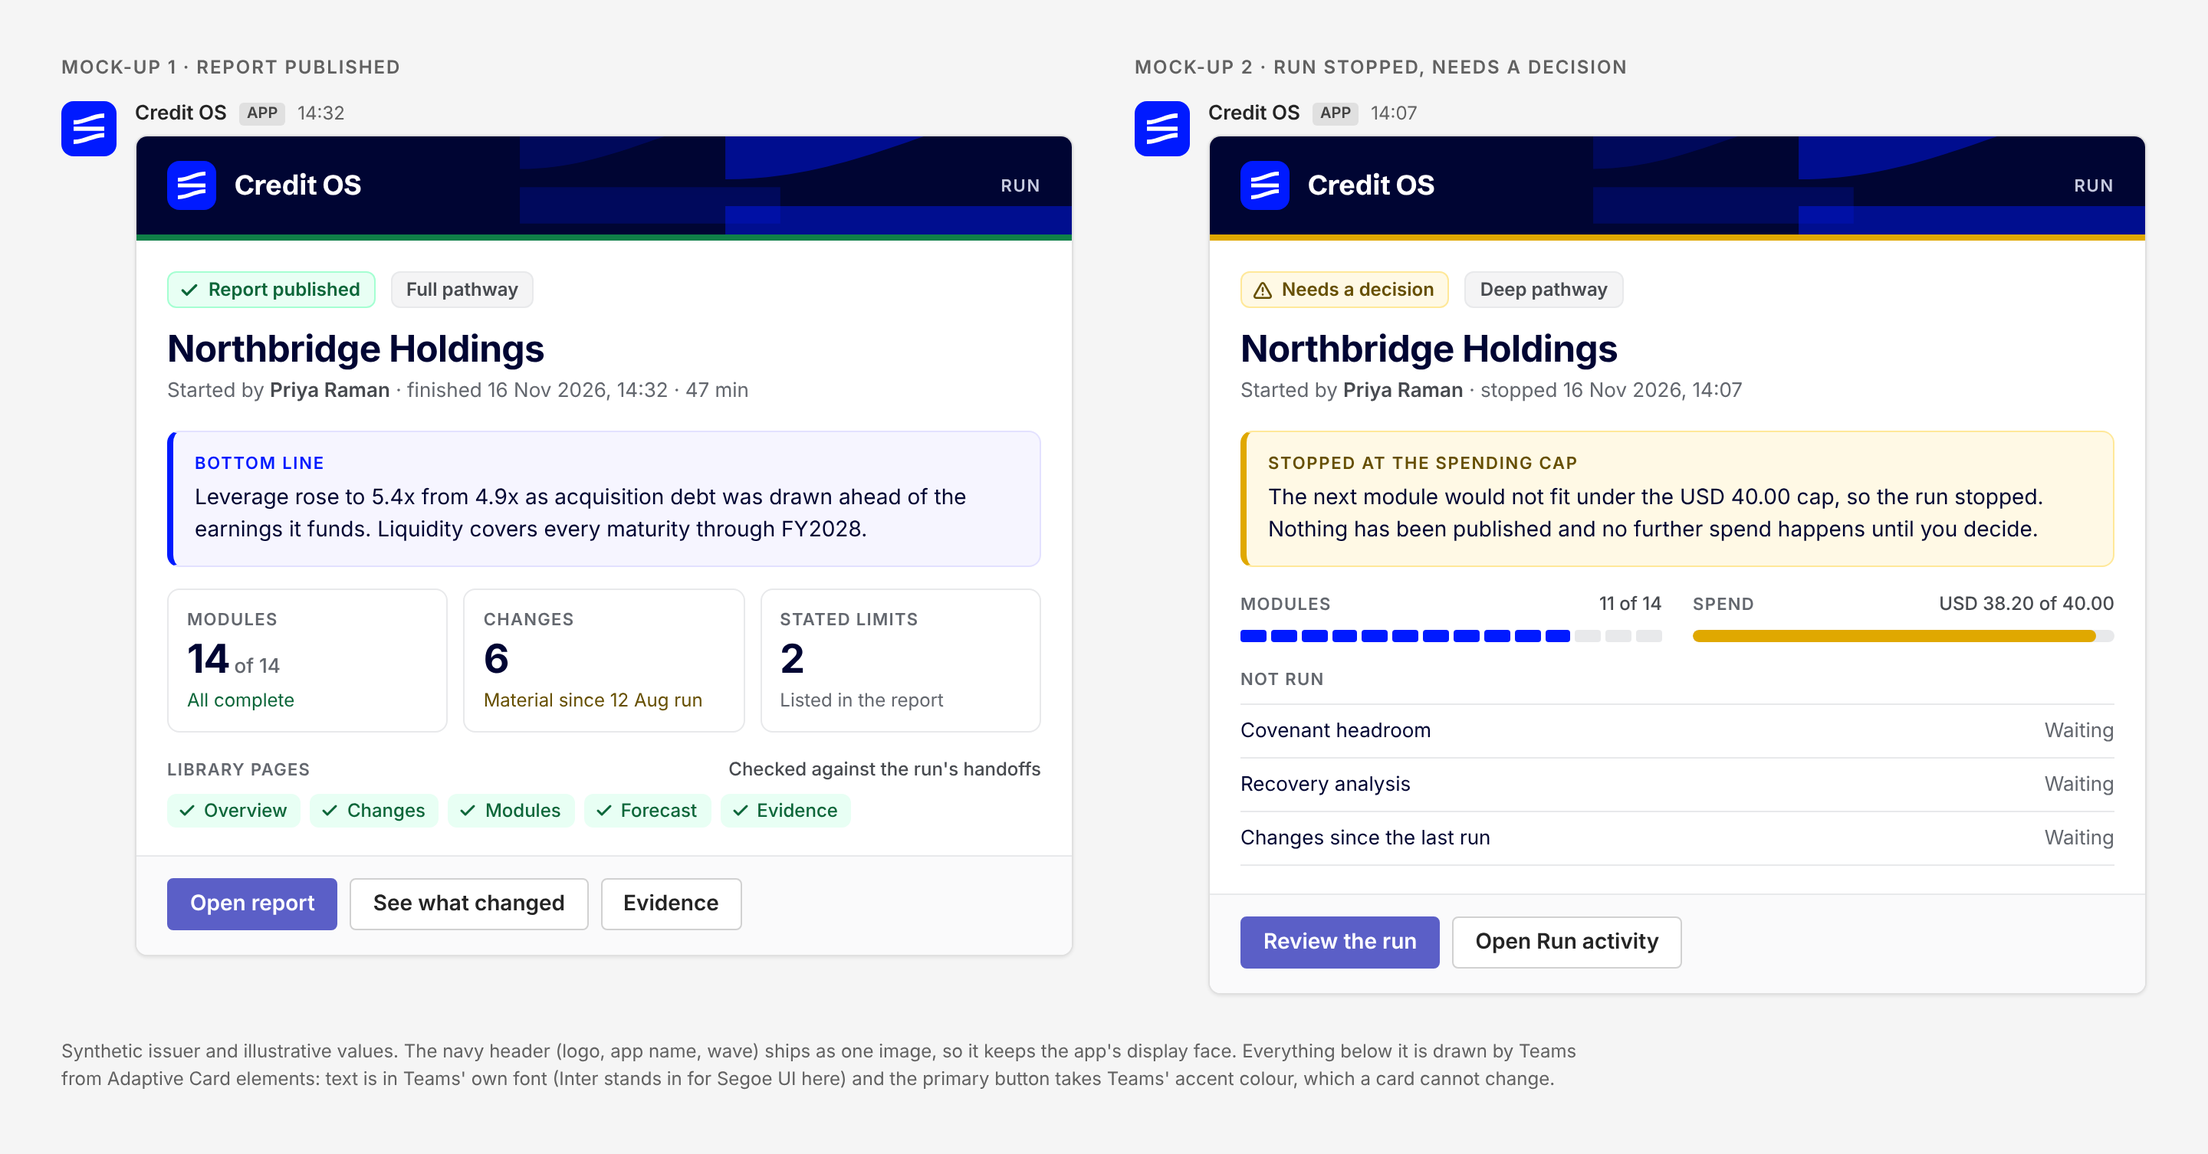
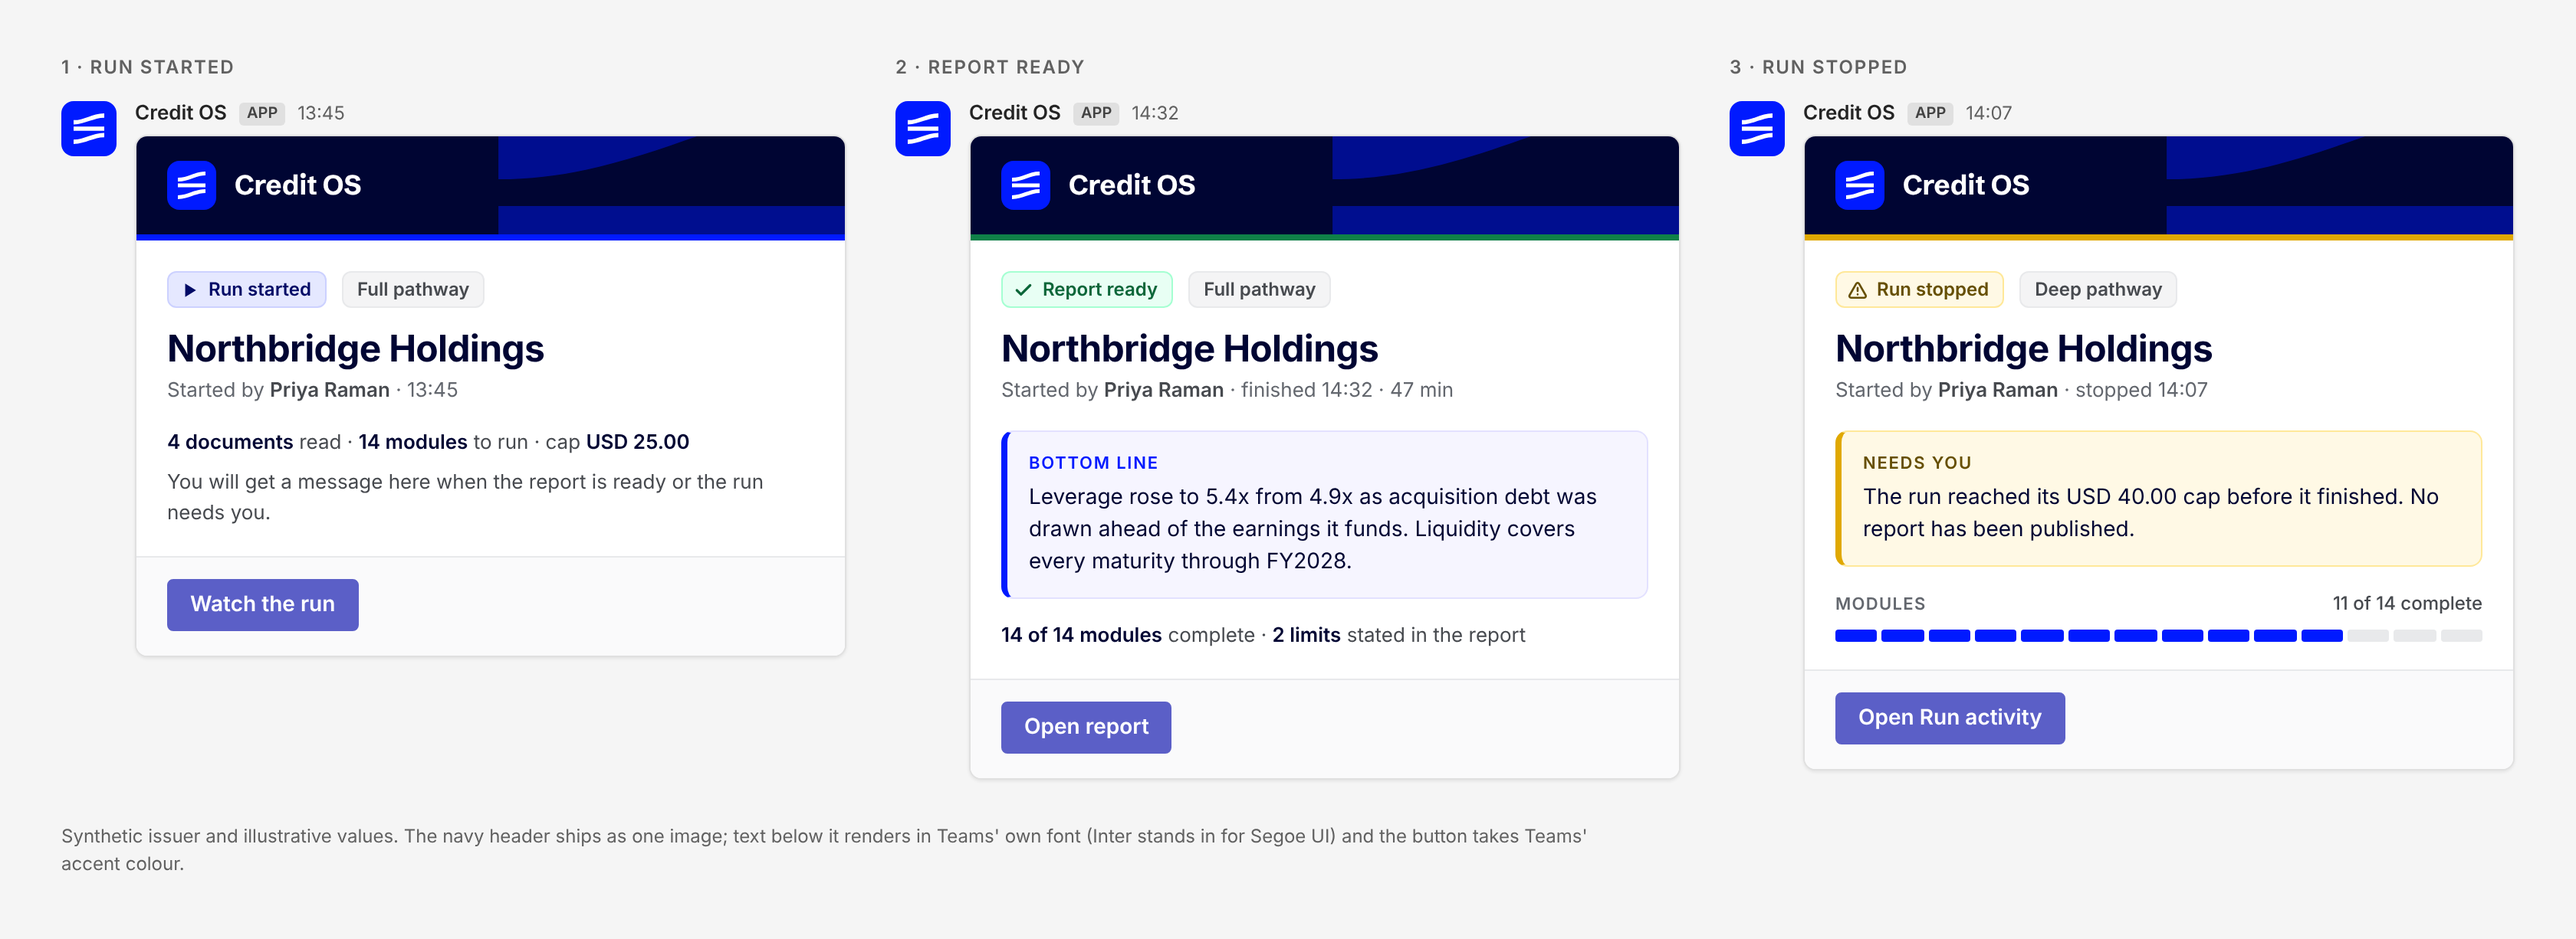
Simplify Teams card mock-ups to three run cards
Claude-Session: https://claude.ai/code/session_01VxgayG2v9EWn8RLjcEmEQx

diff --git a/docs/design/mockups/teams-cards.html b/docs/design/mockups/teams-cards.html
@@ -20,8 +20,8 @@
   --display: "Schibsted Grotesk", system-ui, sans-serif;
 }
 * { box-sizing: border-box; margin: 0; }
-body { background: var(--teams-bg); font-family: var(--ui); color: var(--teams-ink); padding: 36px 40px 40px; width: 1440px; }
-.board { display: grid; grid-template-columns: 1fr 1fr; gap: 40px; align-items: start; }
+body { background: var(--teams-bg); font-family: var(--ui); color: var(--teams-ink); padding: 36px 40px 40px; width: 1680px; }
+.board { display: grid; grid-template-columns: 1fr 1fr 1fr; gap: 32px; align-items: start; }
 .label { font: 600 12px/16px var(--ui); letter-spacing: .08em; text-transform: uppercase; color: var(--teams-ink-2); margin-bottom: 14px; }
 
 /* Teams message chrome */
@@ -44,6 +44,7 @@ body { background: var(--teams-bg); font-family: var(--ui); color: var(--teams-i
 .appname { font: 700 18px/1 var(--display); letter-spacing: -.01em; color: #fff; position: relative; }
 .band .kind { margin-left: auto; position: relative; font: 600 11px/1 var(--ui); letter-spacing: .08em; text-transform: uppercase; color: #c7cbe0; }
 .stripe { height: 4px; }
+.stripe.info { background: var(--blue); } .badge.info { color: #000a66; background: var(--blue-50); border-color: var(--blue-100); }
 .stripe.ok { background: var(--ok-mark); } .stripe.warn { background: #e0a800; }
 
 .body { padding: 20px 20px 18px; }
@@ -93,6 +94,8 @@ h2 { font: 700 24px/30px var(--ui); letter-spacing: -.015em; color: var(--ink); 
 .actions { display: flex; gap: 8px; padding: 14px 20px 16px; border-top: 1px solid var(--hair); background: #fafafb; }
 .btn { font: 600 14px/32px var(--ui); padding: 0 14px; border-radius: 4px; border: 1px solid #d1d1d1; background: #fff; color: var(--teams-ink); }
 .btn.primary { background: var(--teams-accent); border-color: var(--teams-accent); color: #fff; }
+.line { font: 400 13px/20px var(--ui); color: var(--ink-2); margin-top: 14px; }
+.line b { font-weight: 600; color: var(--ink); }
 .note { margin-top: 28px; font: 400 12px/18px var(--ui); color: var(--teams-ink-2); max-width: 1000px; }
 </style>
 </head>
@@ -100,15 +103,39 @@ h2 { font: 700 24px/30px var(--ui); letter-spacing: -.015em; color: var(--ink); 
 <svg width="0" height="0" style="position:absolute" aria-hidden="true">
   <defs>
     <symbol id="sym" viewBox="0 0 1521 1515"><path fill="currentColor" d="m724.8 173c238.6-82.4 489.9-172.7 795.3-172.7v211c-267.1 0-488 78.5-726.5 160.9-235.7 82.4-488 172.7-793.3 172.7v-211c267 0 487.9-78.5 724.5-160.9zm-724.5 477.8h1519.8v213h-111-1408.8zm0 652.5c267 0 487.9-78.5 724.5-161 238.6-82.4 489.9-172.6 795.3-172.6v210.9c-267.1 0-488 78.5-726.5 160.9-236.6 82.5-488 172.7-793.3 172.7z"/></symbol>
+    <symbol id="play" viewBox="0 0 24 24"><path d="M7 4v16l13-8z" fill="currentColor"/></symbol>
     <symbol id="check" viewBox="0 0 24 24"><path d="M20 6 9 17l-5-5" fill="none" stroke="currentColor" stroke-width="3" stroke-linecap="round" stroke-linejoin="round"/></symbol>
     <symbol id="alert" viewBox="0 0 24 24"><path d="m21.7 18-8-14a2 2 0 0 0-3.4 0l-8 14A2 2 0 0 0 4 21h16a2 2 0 0 0 1.7-3ZM12 9v4m0 4h.01" fill="none" stroke="currentColor" stroke-width="2.4" stroke-linecap="round" stroke-linejoin="round"/></symbol>
   </defs>
 </svg>
 
 <div class="board">
-  <!-- Card 1 -->
   <section>
-    <div class="label">Mock-up 1 &middot; Report published</div>
+    <div class="label">1 &middot; Run started</div>
+    <div class="msg">
+      <div class="avatar"><svg><use href="#sym"/></svg></div>
+      <div>
+        <div class="meta"><b>Credit OS</b><span class="app">APP</span><span>13:45</span></div>
+        <div class="card">
+          <div class="band">
+            <svg class="wave" viewBox="0 0 1521 1515"><use href="#sym"/></svg>
+            <div class="logo"><svg><use href="#sym"/></svg></div>
+            <div class="appname">Credit OS</div>
+          </div>
+          <div class="stripe info"></div>
+          <div class="body">
+            <div class="row"><span class="badge info"><svg><use href="#play"/></svg>Run started</span><span class="badge plain">Full pathway</span></div>
+            <h2>Northbridge Holdings</h2>
+            <div class="sub">Started by <b>Priya Raman</b> &middot; 13:45</div>
+            <div class="line"><b>4 documents</b> read &middot; <b>14 modules</b> to run &middot; cap <b>USD 25.00</b></div><div class="line" style="margin-top:6px">You will get a message here when the report is ready or the run needs you.</div>
+          </div>
+          <div class="actions"><span class="btn primary">Watch the run</span></div>
+        </div>
+      </div>
+    </div>
+  </section>
+  <section>
+    <div class="label">2 &middot; Report ready</div>
     <div class="msg">
       <div class="avatar"><svg><use href="#sym"/></svg></div>
       <div>
@@ -116,55 +143,23 @@ h2 { font: 700 24px/30px var(--ui); letter-spacing: -.015em; color: var(--ink); 
         <div class="card">
           <div class="band">
             <svg class="wave" viewBox="0 0 1521 1515"><use href="#sym"/></svg>
-            <svg class="wave wave2" viewBox="0 0 1521 1515"><use href="#sym"/></svg>
             <div class="logo"><svg><use href="#sym"/></svg></div>
             <div class="appname">Credit OS</div>
-            <div class="kind">Run</div>
           </div>
           <div class="stripe ok"></div>
           <div class="body">
-            <div class="row">
-              <span class="badge ok"><svg><use href="#check"/></svg>Report published</span>
-              <span class="badge plain">Full pathway</span>
-            </div>
+            <div class="row"><span class="badge ok"><svg><use href="#check"/></svg>Report ready</span><span class="badge plain">Full pathway</span></div>
             <h2>Northbridge Holdings</h2>
-            <div class="sub">Started by <b>Priya Raman</b> &middot; finished 16 Nov 2026, 14:32 &middot; 47 min</div>
-
-            <div class="callout">
-              <div class="eyebrow">Bottom line</div>
-              <p>Leverage rose to 5.4x from 4.9x as acquisition debt was drawn ahead of the earnings it funds. Liquidity covers every maturity through FY2028.</p>
-            </div>
-
-            <div class="tiles">
-              <div class="tile"><div class="k">Modules</div><div class="v">14<small>of 14</small></div><div class="n ok">All complete</div></div>
-              <div class="tile"><div class="k">Changes</div><div class="v">6</div><div class="n up">Material since 12 Aug run</div></div>
-              <div class="tile"><div class="k">Stated limits</div><div class="v">2</div><div class="n">Listed in the report</div></div>
-            </div>
-
-            <div class="section">
-              <div class="k">Library pages <span>Checked against the run's handoffs</span></div>
-              <div class="chips">
-                <span class="chip"><svg><use href="#check"/></svg>Overview</span>
-                <span class="chip"><svg><use href="#check"/></svg>Changes</span>
-                <span class="chip"><svg><use href="#check"/></svg>Modules</span>
-                <span class="chip"><svg><use href="#check"/></svg>Forecast</span>
-                <span class="chip"><svg><use href="#check"/></svg>Evidence</span>
-              </div>
-            </div>
+            <div class="sub">Started by <b>Priya Raman</b> &middot; finished 14:32 &middot; 47 min</div>
+            <div class="callout"><div class="eyebrow">Bottom line</div><p>Leverage rose to 5.4x from 4.9x as acquisition debt was drawn ahead of the earnings it funds. Liquidity covers every maturity through FY2028.</p></div><div class="line"><b>14 of 14 modules</b> complete &middot; <b>2 limits</b> stated in the report</div>
           </div>
-          <div class="actions">
-            <span class="btn primary">Open report</span>
-            <span class="btn">See what changed</span>
-            <span class="btn">Evidence</span>
-          </div>
+          <div class="actions"><span class="btn primary">Open report</span></div>
         </div>
       </div>
     </div>
   </section>
-
-  <!-- Card 2 -->
   <section>
-    <div class="label">Mock-up 2 &middot; Run stopped, needs a decision</div>
+    <div class="label">3 &middot; Run stopped</div>
     <div class="msg">
       <div class="avatar"><svg><use href="#sym"/></svg></div>
       <div>
@@ -172,55 +167,23 @@ h2 { font: 700 24px/30px var(--ui); letter-spacing: -.015em; color: var(--ink); 
         <div class="card">
           <div class="band">
             <svg class="wave" viewBox="0 0 1521 1515"><use href="#sym"/></svg>
-            <svg class="wave wave2" viewBox="0 0 1521 1515"><use href="#sym"/></svg>
             <div class="logo"><svg><use href="#sym"/></svg></div>
             <div class="appname">Credit OS</div>
-            <div class="kind">Run</div>
           </div>
           <div class="stripe warn"></div>
           <div class="body">
-            <div class="row">
-              <span class="badge warn"><svg><use href="#alert"/></svg>Needs a decision</span>
-              <span class="badge plain">Deep pathway</span>
-            </div>
+            <div class="row"><span class="badge warn"><svg><use href="#alert"/></svg>Run stopped</span><span class="badge plain">Deep pathway</span></div>
             <h2>Northbridge Holdings</h2>
-            <div class="sub">Started by <b>Priya Raman</b> &middot; stopped 16 Nov 2026, 14:07</div>
-
-            <div class="callout warn">
-              <div class="eyebrow">Stopped at the spending cap</div>
-              <p>The next module would not fit under the USD 40.00 cap, so the run stopped. Nothing has been published and no further spend happens until you decide.</p>
-            </div>
-
-            <div class="two section">
-              <div>
-                <div class="k">Modules <span>11 of 14</span></div>
-                <div class="bar"><i></i><i></i><i></i><i></i><i></i><i></i><i></i><i></i><i></i><i></i><i></i><i class="off"></i><i class="off"></i><i class="off"></i></div>
-              </div>
-              <div>
-                <div class="k">Spend <span>USD 38.20 of 40.00</span></div>
-                <div class="meter"><i></i></div>
-              </div>
-            </div>
-
-            <div class="section">
-              <div class="k">Not run</div>
-              <div class="facts">
-                <div>Covenant headroom<span>Waiting</span></div>
-                <div>Recovery analysis<span>Waiting</span></div>
-                <div>Changes since the last run<span>Waiting</span></div>
-              </div>
-            </div>
+            <div class="sub">Started by <b>Priya Raman</b> &middot; stopped 14:07</div>
+            <div class="callout warn"><div class="eyebrow">Needs you</div><p>The run reached its USD 40.00 cap before it finished. No report has been published.</p></div><div class="section"><div class="k">Modules <span>11 of 14 complete</span></div><div class="bar"><i></i><i></i><i></i><i></i><i></i><i></i><i></i><i></i><i></i><i></i><i></i><i class="off"></i><i class="off"></i><i class="off"></i></div></div>
           </div>
-          <div class="actions">
-            <span class="btn primary">Review the run</span>
-            <span class="btn">Open Run activity</span>
-          </div>
+          <div class="actions"><span class="btn primary">Open Run activity</span></div>
         </div>
       </div>
     </div>
   </section>
 </div>
 
-<p class="note">Synthetic issuer and illustrative values. The navy header (logo, app name, wave) ships as one image, so it keeps the app's display face. Everything below it is drawn by Teams from Adaptive Card elements: text is in Teams' own font (Inter stands in for Segoe UI here) and the primary button takes Teams' accent colour, which a card cannot change.</p>
+<p class="note">Synthetic issuer and illustrative values. The navy header ships as one image; text below it renders in Teams' own font (Inter stands in for Segoe UI) and the button takes Teams' accent colour.</p>
 </body>
 </html>
